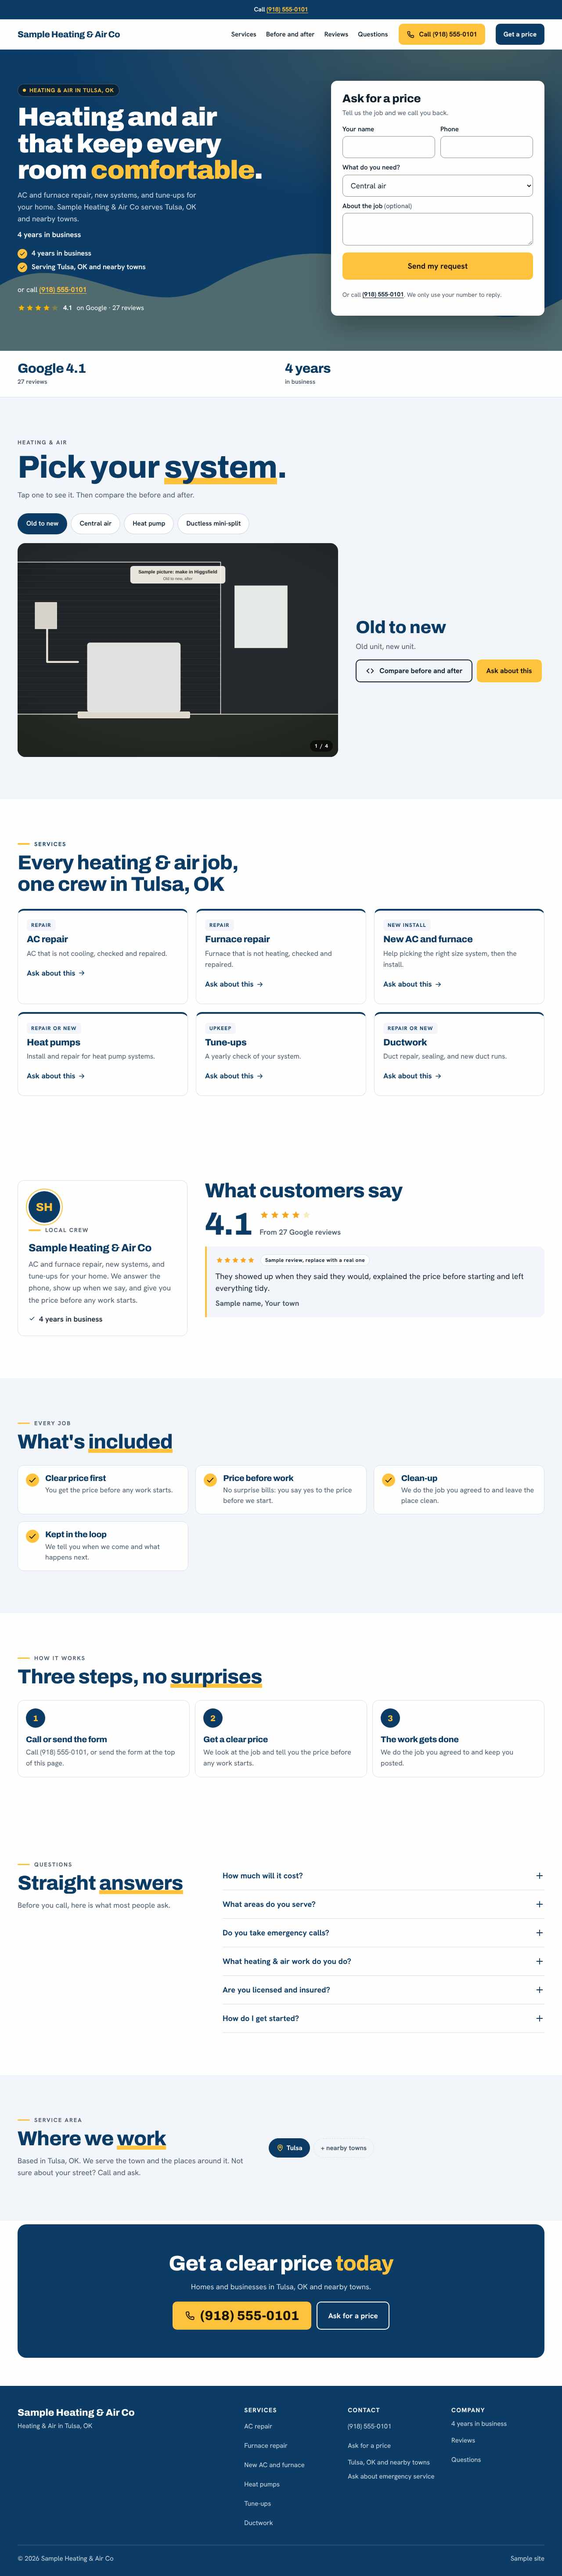
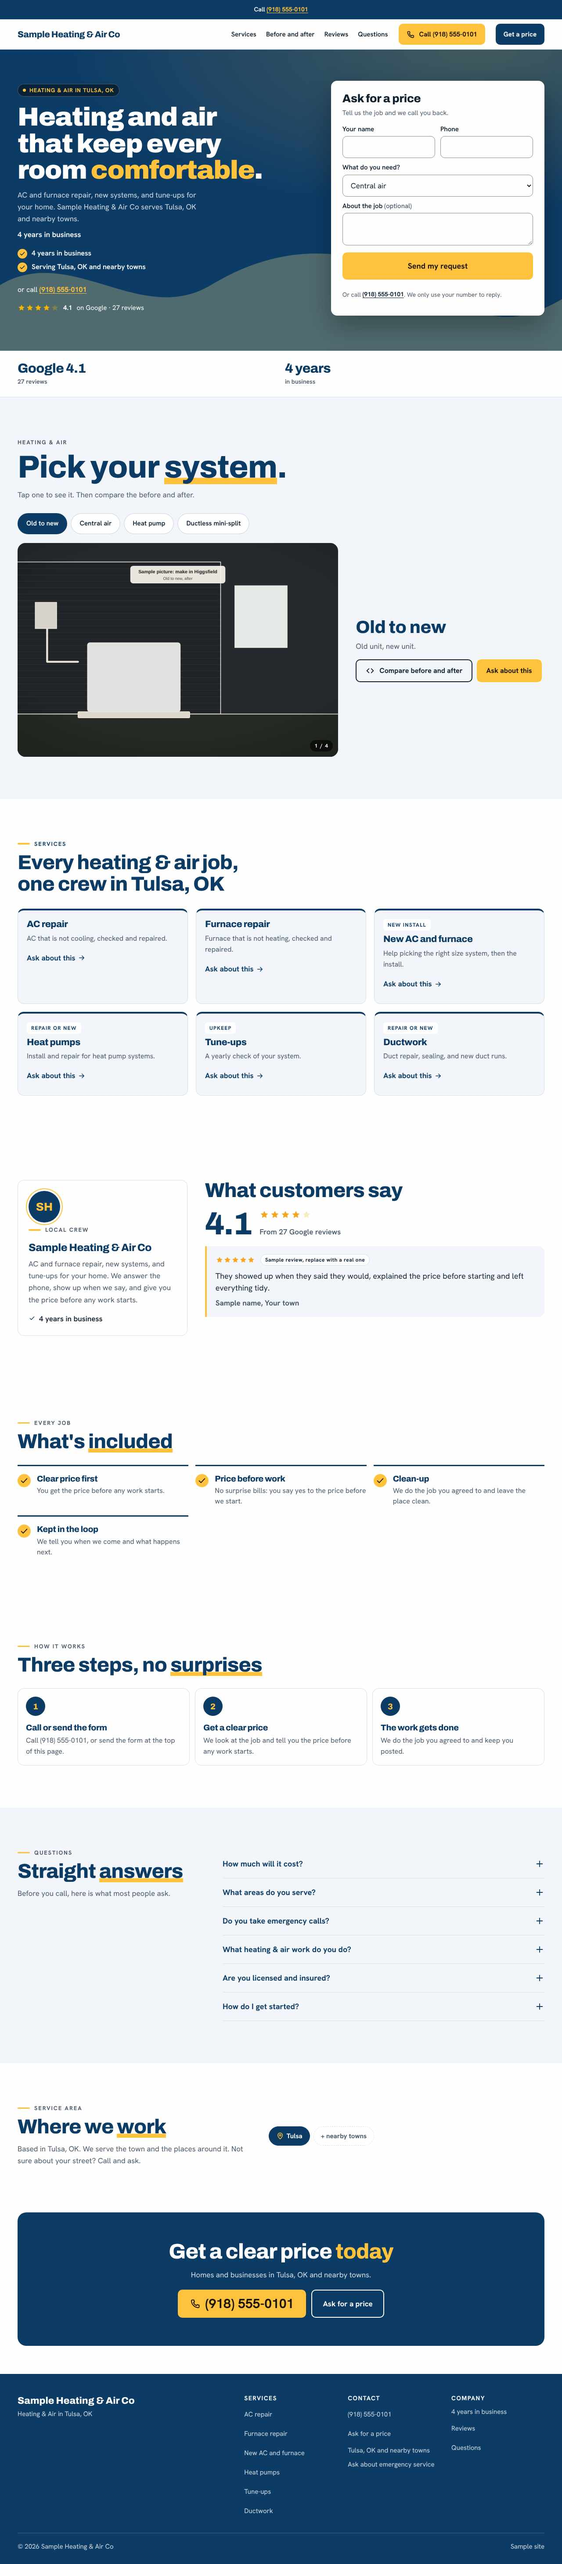
Round 4 QA (3752b2b): Classic featured project (photos) moved between What's included and the FAQ; sections alternate white/tint
Claude-Session: https://claude.ai/code/session_013FPdmxro5Sn2RKVFK4oLko

diff --git a/sitemaker/src/classic.js b/sitemaker/src/classic.js
@@ -126,9 +126,9 @@ export function generateClassic(form, d, o) {
 
   // 8. What's included, how it works, FAQ, service areas, final call band, footer (src/lifetime.js)
   const included = ltIncluded(d, { cls: "cl-inc-open" });
-  const how = ltSteps(d, { cls: "lt-tint" });
-  const faq = ltFaq(d);
-  const areas = ltAreas(d, { cls: "lt-tint" });
+  const how = ltSteps(d);
+  const faq = ltFaq(d, { cls: "lt-tint" });
+  const areas = ltAreas(d);
   const band = ltBand(d);
   const footer = ltFooter(form, d);
 
@@ -173,9 +173,9 @@ ${proof}
 ${photoBand}
 ${picker}
 ${services}
-${featured}
 ${reviews}
 ${included}
+${featured}
 ${how}
 ${faq}
 ${areas}

diff --git a/org/handoffs/polish-10k.md b/org/handoffs/polish-10k.md
@@ -429,3 +429,37 @@ Method: fresh evidence at 9e7dbb8, scored again from scratch. `round2-shots.mjs 
 - 7. Classic included and steps are still white-card runs; towing's bar says "Free estimate". This is what keeps Classic line 4 at 4. Fix: give the included section a tinted band like services, and use the trade's ask label on the bar.
 - Kept by choice (not counted against the scores): the live Email field (5 fields; Kai says 4).
 **Not verified:** WebKit/iOS Safari, real devices, hosted admin, test-all at 9e7dbb8.
+
+### Independent QA of 3752b2b (Opus qa-reviewer, 3 Nov): PASS for all three. Cinematic 4.71, Editorial 4.50, Classic 4.43 (floor 4.3, no line < 4). Classic is still under the 4.5 target.
+Method: fresh evidence at 3752b2b, scored again from scratch. `round2-shots.mjs --out=/tmp/qa11 --widths=375,390,1280` (162 shots, exit 0); section close-ups /tmp/qa11x/s.jpg; Classic pressure phone full page /tmp/qa11x/cl375.jpg. 48 page/width checks (9 main pages + 15 edge pages under /tmp/qa11edge, at 375 and 1280; results in /tmp/qa11m.json): no undefined/NaN, no sideways scroll, no page errors except Turnstile 400020 from the fake test key. test-all not run by me. **WebKit not installed: iOS Safari NOT verified.**
+
+**Builder claims:**
+- MINOR 11 FIXED: all 6 fencing cards are tagged in all three looks (Privacy, Low upkeep, Pets and yards, Curb appeal, Access, Fix). Card heights are equal per row: Classic 191 px x6 and Cinematic 202 px x6 at 1280; at 375 they differ only by text length.
+- MINOR 7 PARTLY: Classic "What's included" is a ruled open list on white and the steps sit on a tinted band, so there is no white-card run left. Towing's bar label is unchanged.
+
+| Line | Cinematic | Editorial | Classic |
+|---|---|---|---|
+| 1 First screen | 5 | 5 | 5 |
+| 2 Photos and motion | 4 | 4 | 4 |
+| 3 Type and accent | 5 | 5 | 4 |
+| 4 Rhythm | 4 | 4 | 4 |
+| 5 Tools | 5 | 4 | 4 |
+| 6 Trust and call | 5 | 5 | 5 |
+| 7 Phone feel | 5 | 4 | 5 |
+| 8 Editorial craft | - | 5 | - |
+| **Average** | **4.71 PASS** | **4.50 PASS** | **4.43 PASS** |
+Classic line 4 stays at 4: the white/tint alternation is now clean, but services, included, steps, FAQ and areas are five text sections in a row with no photo beat.
+
+**SPEC counts:**
+- Classic 20 D / 2 P / 0 N; Cinematic 19 D / 3 P / 0 N; Editorial 20 D / 2 P / 0 N.
+- The services-tags row is DONE again in all three looks.
+- PARTLY rows: Kai section order and the live Email field (kept by choice) in all three, plus Cinematic's phone checks after the story.
+
+**BLOCKER:** none. **MAJOR:** none.
+**MINOR (open)**
+- 6. Cinematic phone: the checks come after the story, and with reduced motion the first screen has no primary button (kept by choice). Fix: under reduced motion, render `.lt-cta` after the first stacked frame.
+- 7. Towing's phone bar says "Free estimate". Fix: use the trade's ask label (e.g. "Get help").
+- 12 (way to 4.5 for Classic). Add a photo beat in the text run. Fix: move the featured project (`#project`) to between `#included` and `#faq`, or add one full-width sample photo band there. That should lift Classic line 4 to 5 (Classic 4.57).
+- Cosmetic: roofing has 1 untagged card of 6 (Roof repair) and pressure has 2 (Roof cleaning, Commercial washing). Cards stay equal height, so it is acceptable.
+- Kept by choice (not counted against the scores): the live Email field.
+**Not verified:** WebKit/iOS Safari, real devices, hosted admin, test-all at 3752b2b.
